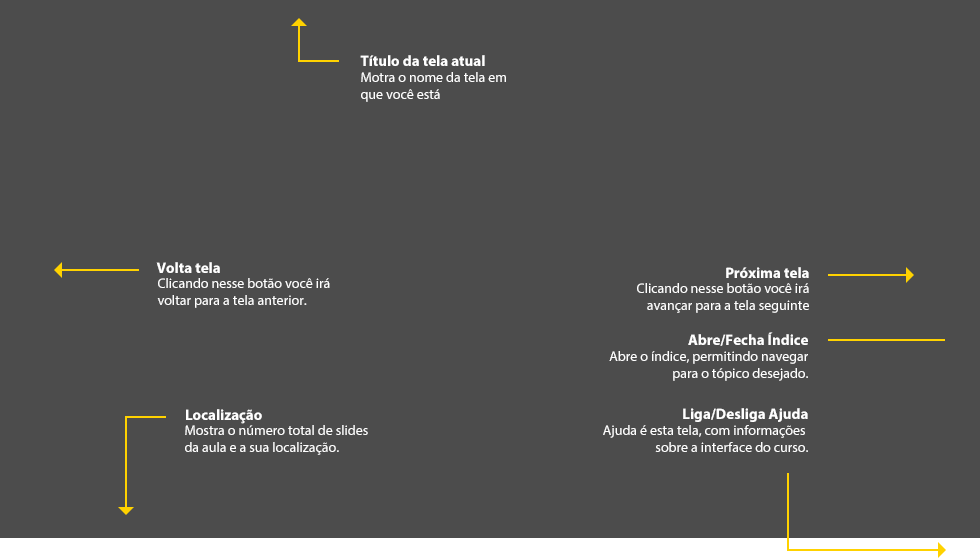
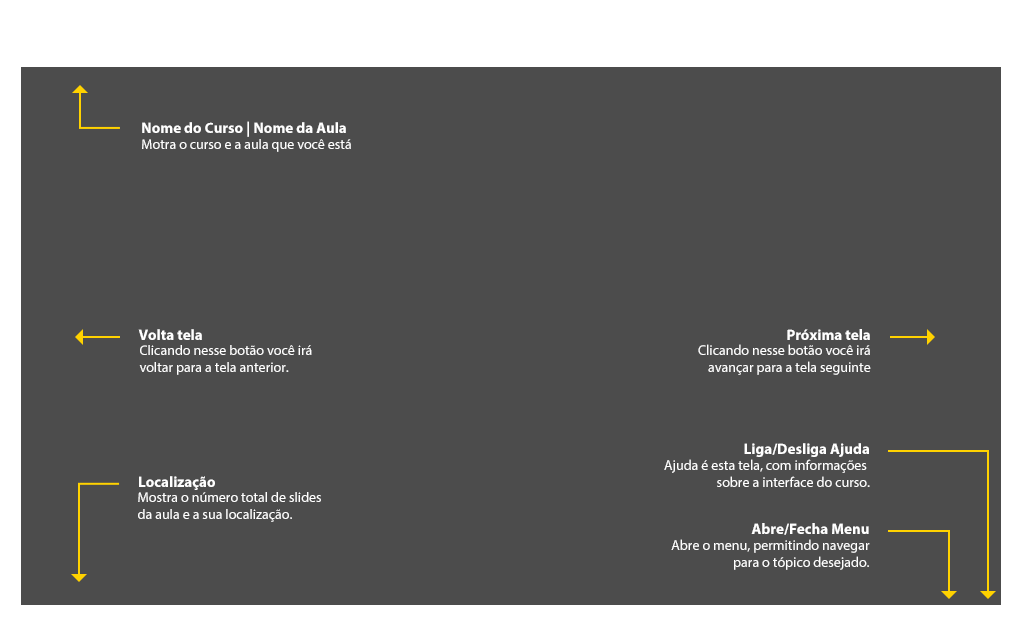
ajustes tela de ajuda - alterações de imagem e ajustes de CSS

diff --git a/css/sass/main/style.scss b/css/sass/main/style.scss
@@ -31,6 +31,17 @@
 }
 
 
+.ajuda{
+	background: url("assets/images/ajuda.png") no-repeat;
+    width: 100%;
+    height: 630px;
+    z-index: 20;
+    left: 0px;
+    background-size: 1020px 631px;
+    top: -4px;
+}
+
+
 #indice {
     position: absolute;
 	  top: 50px;
